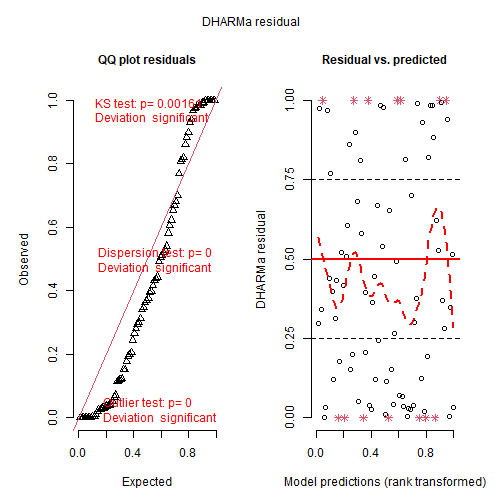
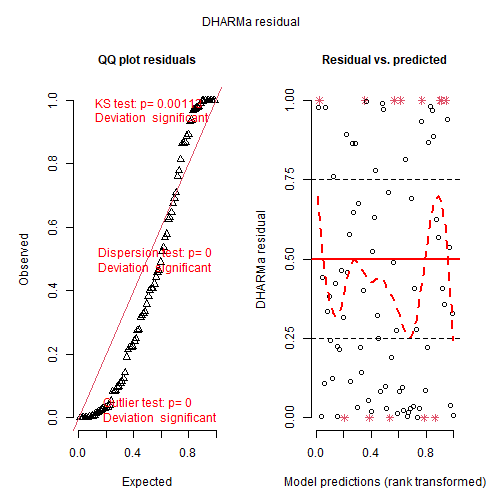
Deploying to gh-pages from @ tpaknok/CPR@975c566980b4c9074a6730f43689833d044be4c0 🚀

diff --git a/articles/Simulation.html b/articles/Simulation.html
@@ -125,8 +125,8 @@ Optimizing the λ takes a long time. Thus, we will only conduct
 optimization for 100 times. NOTE THAT running this could take several
 hours!!</p>
 <div class="sourceCode" id="cb3"><pre class="downlit sourceCode r">
-<code class="sourceCode R"><span><span class="va">sim</span> <span class="op">&lt;-</span> <span class="fl">30</span></span>
-<span><span class="va">optim_sim</span> <span class="op">&lt;-</span> <span class="fl">15</span></span>
+<code class="sourceCode R"><span><span class="va">sim</span> <span class="op">&lt;-</span> <span class="fl">500</span></span>
+<span><span class="va">optim_sim</span> <span class="op">&lt;-</span> <span class="fl">100</span></span>
 <span><span class="va">optim_seq</span> <span class="op">&lt;-</span> <span class="fu"><a href="https://rdrr.io/r/base/sample.html" class="external-link">sample</a></span><span class="op">(</span><span class="fu"><a href="https://rdrr.io/r/base/c.html" class="external-link">c</a></span><span class="op">(</span><span class="fu"><a href="https://rdrr.io/r/base/rep.html" class="external-link">rep</a></span><span class="op">(</span><span class="cn">TRUE</span>, <span class="va">optim_sim</span><span class="op">)</span>, <span class="fu"><a href="https://rdrr.io/r/base/rep.html" class="external-link">rep</a></span><span class="op">(</span><span class="cn">FALSE</span>, <span class="va">sim</span><span class="op">-</span><span class="va">optim_sim</span><span class="op">)</span><span class="op">)</span>, <span class="va">sim</span> ,replace <span class="op">=</span> <span class="cn">F</span><span class="op">)</span></span>
 <span><span class="va">INLA_formula</span> <span class="op">&lt;-</span>  <span class="va">y</span><span class="op">~</span><span class="va">x</span><span class="op">+</span><span class="fu"><a href="https://rdrr.io/pkg/INLA/man/f.html" class="external-link">f</a></span><span class="op">(</span><span class="va">comm</span>,model<span class="op">=</span><span class="st">"generic0"</span>,Cmatrix<span class="op">=</span><span class="va">Phylo</span><span class="op">)</span></span>
 <span><span class="va">GLS_formula</span> <span class="op">&lt;-</span> <span class="va">y</span><span class="op">~</span><span class="va">x</span></span>

diff --git a/articles/Empirical_multiple.html b/articles/Empirical_multiple.html
@@ -205,6 +205,10 @@ will take some time to run!!!</p>
 <span><span class="co">#&gt;  *** inla.core.safe:  The inla program failed, but will rerun in case better initial values may help. try=1/1 </span></span>
 <span><span class="co">#&gt; </span></span>
 <span><span class="co">#&gt;  *** inla.core.safe:  rerun with improved initial values </span></span>
+<span><span class="co">#&gt; </span></span>
+<span><span class="co">#&gt;  *** inla.core.safe:  The inla program failed, but will rerun in case better initial values may help. try=1/1 </span></span>
+<span><span class="co">#&gt; </span></span>
+<span><span class="co">#&gt;  *** inla.core.safe:  rerun with improved initial values </span></span>
 <span><span class="co">#&gt; [1] "Mass.loss.2month"</span></span>
 <span><span class="co">#&gt; [1] "LAI"</span></span>
 <span><span class="co">#&gt; [1] "mean.N.change"</span></span>
@@ -247,7 +251,8 @@ al. (2024) was produced.</p>
 <span></span>
 <span><span class="fu"><a href="https://rdrr.io/r/graphics/plot.default.html" class="external-link">plot</a></span><span class="op">(</span><span class="va">p</span><span class="op">)</span></span></code></pre></div>
 <div class="float">
-<img src="figure/ggplot2-1.png" alt="plot of chunk ggplot2"><div class="figcaption">plot of chunk ggplot2</div>
+<img src="figure/ggplot2-1.png" alt="Predicted effects of species richness on the ten selected ecosystem functions"><div class="figcaption">Predicted effects of species richness on the ten
+selected ecosystem functions</div>
 </div>
 </div>
   </main><aside class="col-md-3"><nav id="toc"><h2>On this page</h2>
